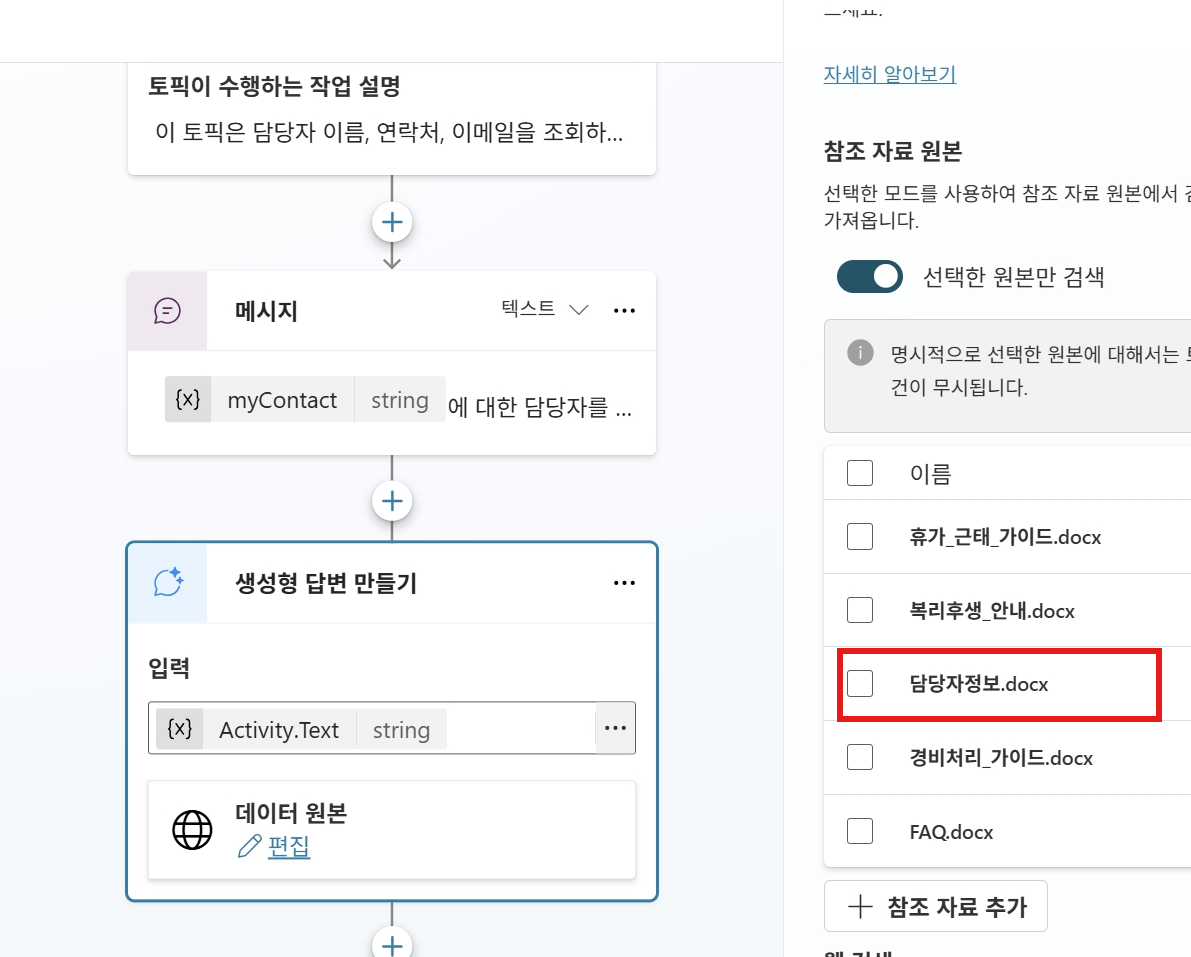
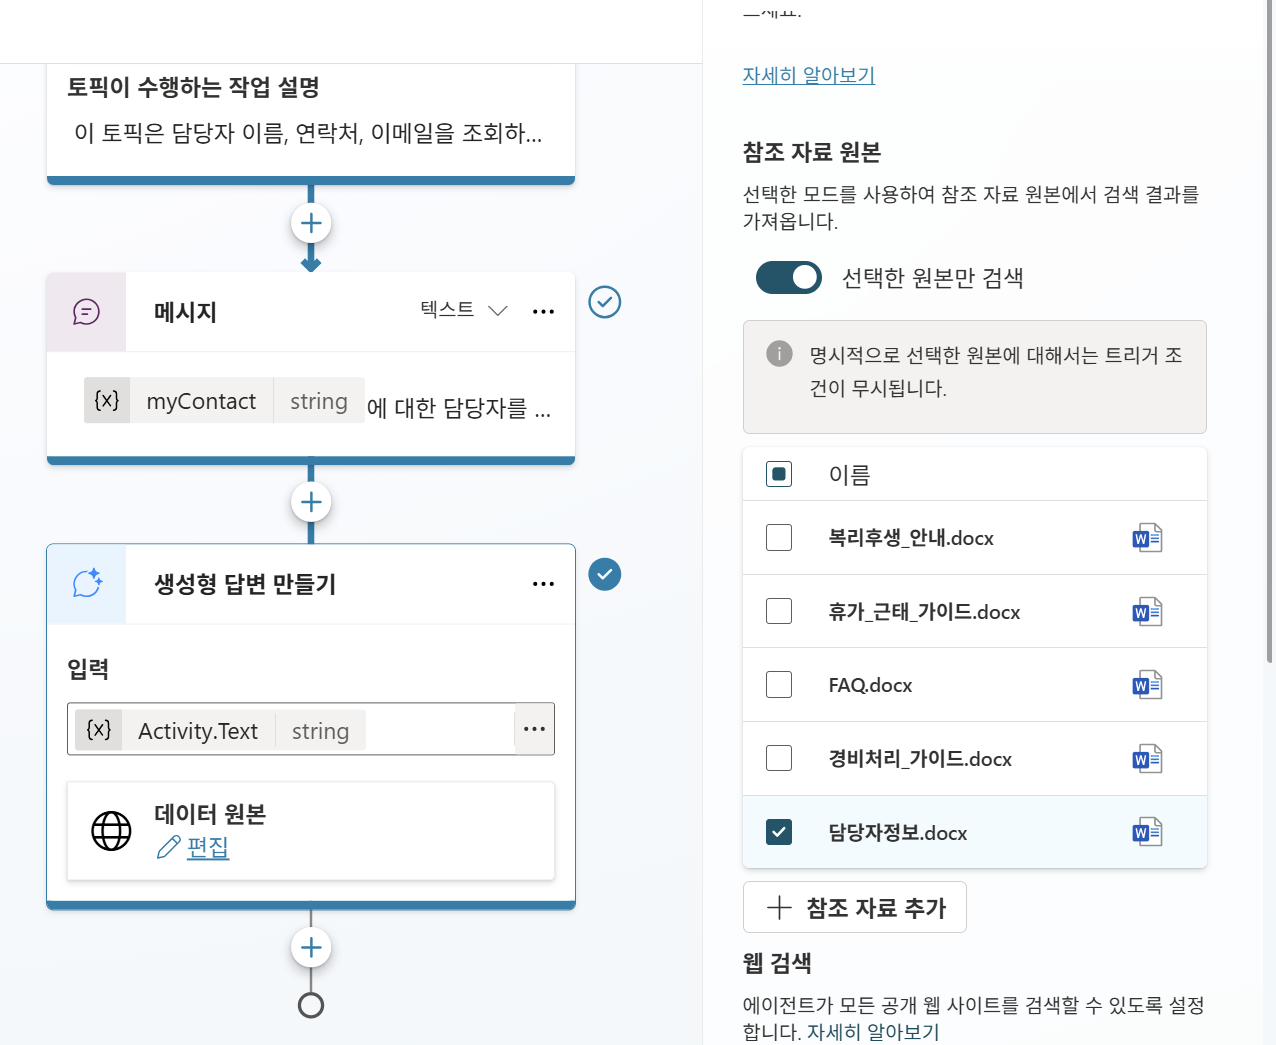
M10 Contact 토픽 테스트 화면 추가, M11에 추천 프롬프트 실습 신설

diff --git a/index.html b/index.html
@@ -2752,6 +2752,24 @@ details.fold .copybox{margin-top:0}
 <tr><td>활동 창</td><td>Contact Topic이 완료로 표시되는지</td></tr>
 </table>
 
+<img loading="lazy" decoding="async" class="shot" src="ecl-shots/m10-70-contact-test.png" alt="경비처리 담당자를 물었을 때 조회 안내가 나오는 화면">
+<p class="cap">먼저 <code>경비 처리에 대한 담당자를 조회해보겠습니다.</code>가 나옵니다. <code>myContact</code>에 <strong>경비 처리</strong>가 들어간 것입니다</p>
+
+<img loading="lazy" decoding="async" class="shot" src="ecl-shots/m10-71-contact-done.png" alt="담당자 정보와 참조 문서가 표시된 화면">
+<p class="cap">활동 창의 <strong>입력</strong>에 <code>경비 처리</code>가 그대로 보이고, 답변 아래에 <strong>1 참조 담당자정보.docx</strong>가 붙습니다</p>
+
+<div class="new"><span class="tag"></span>
+<div class="note">
+<span class="t">이 화면에서 세 가지가 한꺼번에 확인됩니다</span>
+<ul>
+<li>활동 창의 <strong>입력</strong> 칸에 <code>경비 처리</code>가 들어간 것으로 동적 슬롯 필링이 동작했다는 것</li>
+<li>답변 아래 <strong>참조</strong>가 담당자정보 하나뿐인 것으로 선택한 원본만 검색이 걸렸다는 것</li>
+<li>맺음말과 이모지가 붙은 것으로 지침의 말투가 살아 있다는 것</li>
+</ul>
+<p>토픽이 정보를 모으고 오케스트레이터가 문장을 만든다는 구조가 그대로 보입니다.</p>
+</div>
+</div>
+
 <div class="note">
 <span class="t">토픽이 안 불린다면</span>
 <p>STRICT RULES의 토픽 이름이 아이콘이 아니라 글자로 남아 있는지 먼저 봅니다. 그다음 지침을 저장했는지, 대화를 새로 시작했는지 확인합니다.</p>
@@ -2806,9 +2824,6 @@ details.fold .copybox{margin-top:0}
 <tr><td>경비처리 담당자 알려줘</td><td>Contact 토픽 호출, 담당자 정보 반환</td></tr>
 <tr><td>아까 찾은 담당자한테 문의하고 싶어</td><td>글로벌 변수에 저장된 정보 활용</td></tr>
 </table>
-
-<img loading="lazy" decoding="async" class="shot" src="ecl-img/m10-3_test.png" alt="경비처리 담당자를 물었을 때 토픽이 호출된 화면">
-<p class="cap">토픽이 담당자 정보를 찾아오면 오케스트레이터가 문장으로 다듬어 답합니다</p>
 
 <div class="new"><span class="tag"></span>
 <h3>정리</h3>
@@ -2865,6 +2880,43 @@ details.fold .copybox{margin-top:0}
 </table>
 
 <p>게시하지 않으면 테스트 패널에서는 변경 사항이 보이지만 Copilot이나 Teams에서는 이전 버전이 유지됩니다.</p>
+
+<div class="new"><span class="tag"></span>
+<h3>실습 &#9312; 추천 프롬프트 넣기</h3>
+<p>게시하기 전에 한 가지 더 해 둡니다. 에이전트를 처음 만난 사람이 무엇을 물어봐야 할지 모르는 문제를 줄이는 장치입니다.</p>
+
+<p>개요 탭을 <strong>맨 아래까지</strong> 내리면 <strong>추천 프롬프트</strong>가 있습니다.</p>
+<img loading="lazy" decoding="async" class="shot" src="ecl-shots/m11-01-starter-prompts.png" alt="개요 탭 맨 아래의 추천 프롬프트 영역">
+<p class="cap">Teams 및 Microsoft 365 채널에 대한 대화를 시작하는 방법을 제안한다고 적혀 있습니다</p>
+
+<div class="note">
+<span class="t">채널에서만 보입니다</span>
+<p>테스트 패널에는 나오지 않습니다. Teams나 Microsoft 365 Copilot에서 이 에이전트를 열었을 때 첫 화면에 버튼처럼 뜹니다.</p>
+</div>
+
+<p><strong>+ 추천 프롬프트 추가</strong>를 눌러 아래 네 개를 넣습니다. 제목은 버튼에 보이는 글자이고, 프롬프트는 눌렀을 때 실제로 전송되는 문장입니다.</p>
+
+<table>
+<tr><th>제목</th><th>프롬프트</th><th>어느 문서에서 답하나</th></tr>
+<tr><td>연차 며칠인가요</td><td>입사 3년 차인데 올해 연차가 며칠인가요?</td><td>휴가_근태_가이드</td></tr>
+<tr><td>법인카드 정산</td><td>법인카드로 결제했는데 정산은 어떻게 하나요?</td><td>경비처리_가이드, FAQ</td></tr>
+<tr><td>담당자 찾기</td><td>출입증을 잃어버렸는데 누구한테 문의해야 하나요?</td><td>담당자정보</td></tr>
+<tr><td>복지포인트</td><td>복지포인트는 얼마이고 어디에 쓸 수 있나요?</td><td>복리후생_안내, FAQ</td></tr>
+</table>
+
+<div class="note">
+<span class="t">왜 이 네 개인가</span>
+<p>네 개 모두 <strong>올린 문서 안에 답이 분명히 있는</strong> 질문입니다. 추천 프롬프트는 처음 쓰는 사람이 가장 먼저 누르는 버튼이라, 여기서 못 답하면 그 뒤로 안 씁니다.</p>
+<p>다루는 문서도 서로 다릅니다. 네 개를 차례로 눌러 보면 다섯 개 문서 중 네 개가 동작하는지 한 번에 확인됩니다.</p>
+<p>세 번째는 <a href="#m10">M10</a>에서 만든 Contact 토픽이 걸립니다. 출입증 분실이라는 말에서 보안팀 오보안을 찾아내는지 보세요.</p>
+</div>
+
+<div class="note">
+<span class="t">실무에서 고를 때</span>
+<p>가장 많이 들어오는 질문 네다섯 개를 넣습니다. 만든 사람이 보여주고 싶은 것이 아니라 <strong>쓰는 사람이 자주 묻는 것</strong>이어야 합니다.</p>
+<p><a href="#m12">M12</a>에서 질문 기록을 Excel에 쌓게 되는데, 한 달쯤 모이면 그것을 보고 추천 프롬프트를 다시 고르면 됩니다.</p>
+</div>
+</div>
 
 <h3>사용 채널</h3>
 <table>

diff --git a/_v4.py b/_v4.py
@@ -1,0 +1,12 @@
+# -*- coding: utf-8 -*-
+import io, re, os
+os.chdir(r"C:\Users\suminlee\_ghwork\easycopilotlab-2026")
+s = io.open("index.html", encoding="utf-8").read()
+for t in ["div", "table", "section", "details", "ol", "ul", "pre"]:
+    o = len(re.findall(r"<%s[ >]" % t, s))
+    c = len(re.findall(r"</%s>" % t, s))
+    print(t, o, c, "OK" if o == c else "MISMATCH")
+imgs = re.findall(r'src="(ecl-[^"]+)"', s)
+print("images", len(imgs), "missing", sorted(i for i in set(imgs) if not os.path.exists(i)))
+used = set(os.path.basename(i) for i in imgs)
+print("unused:", [f for f in sorted(os.listdir("ecl-shots")) if f not in used])
